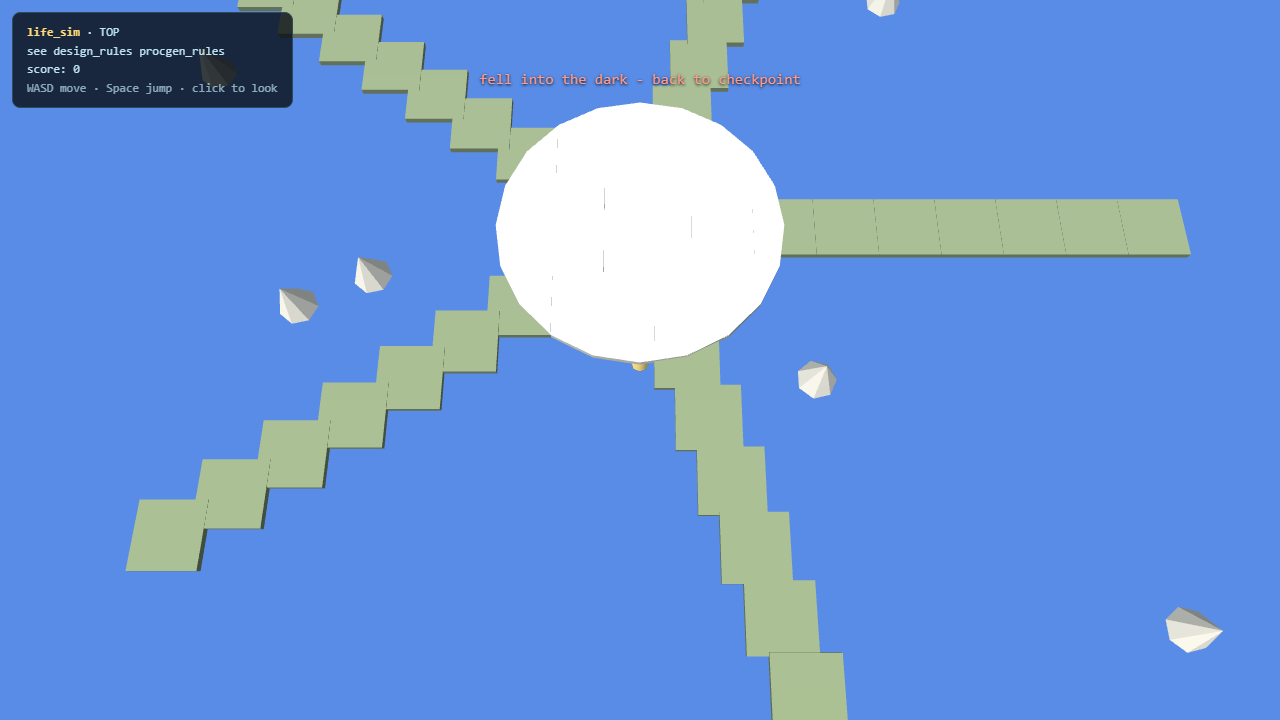
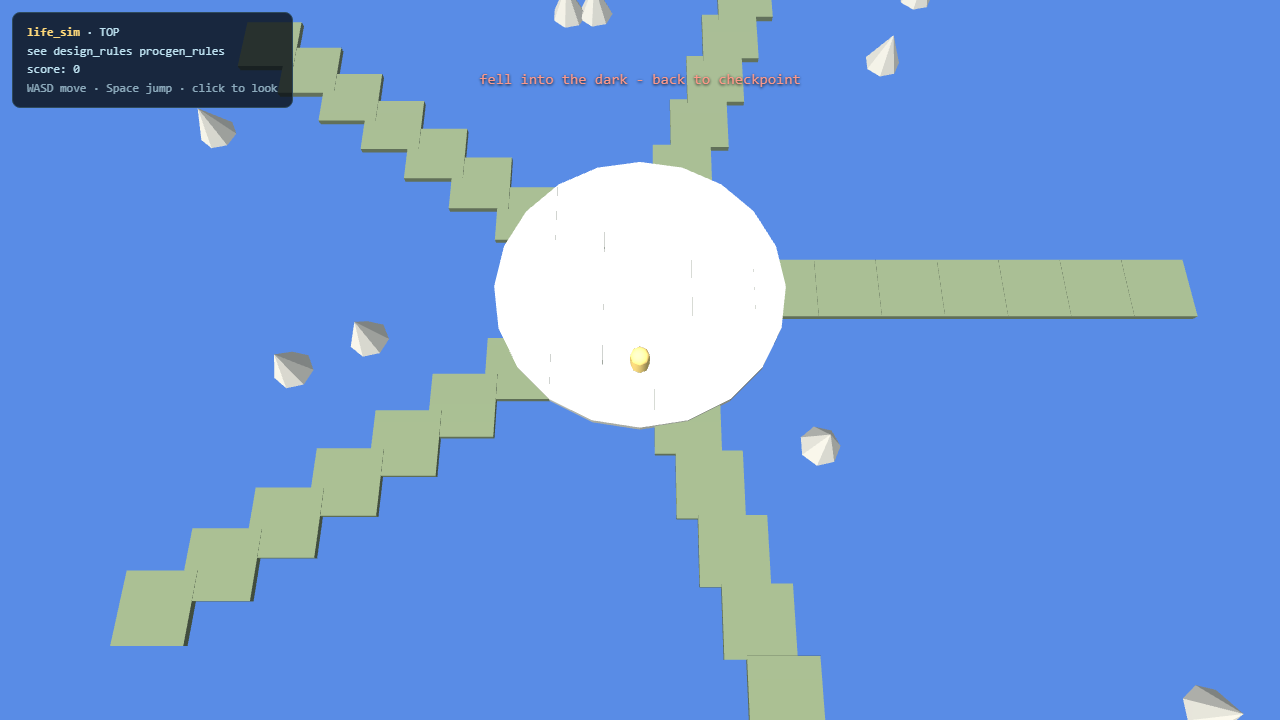
fix(runtime): honor jump_buffer_s + soulslike emits readable gameplay paths
- runtime.js: jump buffer window now reads gameplay.physics.jump_buffer_s
  (documented but previously ignored; fell back to coyote+0.02)
- gen_soulslike: enemy_aggro_m/corpse_run/spawn now at the top-level
  gameplay paths the browser+native runtimes consume (were buried under
  enemies./souls. sub-objects); Player_Start node tagged player/start so
  browser spawn lands at the bonfire instead of the generic default
- runtime.js resynced to every Project viewer; browser proof re-run 7/7 OK
  with input response

diff --git a/Project/example-village/viewer/runtime.js b/Project/example-village/viewer/runtime.js
@@ -145,18 +145,29 @@
       pending.push(objToGroup("../assets/" + c.path.replace(/^assets\//, ""), mtlMats).then(function (g) {
         g.position.fromArray(c.position || [0, 0, 0]); sc.add(g);
         solids.push(new THREE.Box3().setFromObject(g));
-      }).catch(function () {}));
+      }).catch(function (e) { console.warn("[litt] chunk failed:", c.path, e); }));
     });
     (scene.nodes || []).forEach(function (node) {
       if (node.id === 0) return;
       var mt = (node.tags || []).filter(function (t) { return t.indexOf("model:") === 0; })[0];
       if (!mt) return;
       var url = "../assets/models/" + mt.slice(6) + ".obj";
-      pending.push(objToGroup(url, mtlMats).then(function (g) { register(node, g); }).catch(function () {}));
+      pending.push(objToGroup(url, mtlMats).then(function (g) { register(node, g); })
+        .catch(function (e) { console.warn("[litt] model failed:", url, e); }));
     });
 
-    // player
+    // player -- spawn at a node tagged "player"/"start" when the world
+    // declares one; otherwise fall back to the classic default.
     var spawn = new THREE.Vector3(0, 1.2, 4);
+    (function pickSpawn() {
+      var s = (scene.nodes || []).filter(function (n) {
+        return n.id !== 0 && (has(n.tags || [], "player") || has(n.tags || [], "start"));
+      })[0];
+      if (s) {
+        spawn.fromArray(s.position || [0, 0, 0]);
+        spawn.y += 1.2;
+      }
+    })();
     var playerGeo = (typeof THREE.CapsuleGeometry === "function")
       ? new THREE.CapsuleGeometry(0.45, 0.9, 4, 8)
       : new THREE.CylinderGeometry(0.45, 0.45, 1.6, 10);
@@ -166,7 +177,8 @@
     var vel = new THREE.Vector3(); var pos = spawn.clone();
     var grounded = false, coyote = 0, buffer = 0, camYaw = Math.PI, score = 0, deadUntil = 0, won = false;
     var keys = {};
-    addEventListener("keydown", function (e) { keys[e.code] = true; if (e.code === "Space") buffer = COYOTE + 0.02; });
+    var BUF = phys.jump_buffer_s || (COYOTE + 0.02);
+    addEventListener("keydown", function (e) { keys[e.code] = true; if (e.code === "Space") buffer = BUF; });
     addEventListener("keyup", function (e) { keys[e.code] = false; });
     addEventListener("mousemove", function (e) { if (document.pointerLockElement) camYaw -= e.movementX * 0.003; });
     addEventListener("click", function () { if (mode === "3D") renderer.domElement.requestPointerLock(); });

diff --git a/Project/live/viewer/runtime.js b/Project/live/viewer/runtime.js
@@ -145,18 +145,29 @@
       pending.push(objToGroup("../assets/" + c.path.replace(/^assets\//, ""), mtlMats).then(function (g) {
         g.position.fromArray(c.position || [0, 0, 0]); sc.add(g);
         solids.push(new THREE.Box3().setFromObject(g));
-      }).catch(function () {}));
+      }).catch(function (e) { console.warn("[litt] chunk failed:", c.path, e); }));
     });
     (scene.nodes || []).forEach(function (node) {
       if (node.id === 0) return;
       var mt = (node.tags || []).filter(function (t) { return t.indexOf("model:") === 0; })[0];
       if (!mt) return;
       var url = "../assets/models/" + mt.slice(6) + ".obj";
-      pending.push(objToGroup(url, mtlMats).then(function (g) { register(node, g); }).catch(function () {}));
+      pending.push(objToGroup(url, mtlMats).then(function (g) { register(node, g); })
+        .catch(function (e) { console.warn("[litt] model failed:", url, e); }));
     });
 
-    // player
+    // player -- spawn at a node tagged "player"/"start" when the world
+    // declares one; otherwise fall back to the classic default.
     var spawn = new THREE.Vector3(0, 1.2, 4);
+    (function pickSpawn() {
+      var s = (scene.nodes || []).filter(function (n) {
+        return n.id !== 0 && (has(n.tags || [], "player") || has(n.tags || [], "start"));
+      })[0];
+      if (s) {
+        spawn.fromArray(s.position || [0, 0, 0]);
+        spawn.y += 1.2;
+      }
+    })();
     var playerGeo = (typeof THREE.CapsuleGeometry === "function")
       ? new THREE.CapsuleGeometry(0.45, 0.9, 4, 8)
       : new THREE.CylinderGeometry(0.45, 0.45, 1.6, 10);
@@ -166,7 +177,8 @@
     var vel = new THREE.Vector3(); var pos = spawn.clone();
     var grounded = false, coyote = 0, buffer = 0, camYaw = Math.PI, score = 0, deadUntil = 0, won = false;
     var keys = {};
-    addEventListener("keydown", function (e) { keys[e.code] = true; if (e.code === "Space") buffer = COYOTE + 0.02; });
+    var BUF = phys.jump_buffer_s || (COYOTE + 0.02);
+    addEventListener("keydown", function (e) { keys[e.code] = true; if (e.code === "Space") buffer = BUF; });
     addEventListener("keyup", function (e) { keys[e.code] = false; });
     addEventListener("mousemove", function (e) { if (document.pointerLockElement) camYaw -= e.movementX * 0.003; });
     addEventListener("click", function () { if (mode === "3D") renderer.domElement.requestPointerLock(); });

diff --git a/Project/ember-depths/viewer/runtime.js b/Project/ember-depths/viewer/runtime.js
@@ -145,14 +145,15 @@
       pending.push(objToGroup("../assets/" + c.path.replace(/^assets\//, ""), mtlMats).then(function (g) {
         g.position.fromArray(c.position || [0, 0, 0]); sc.add(g);
         solids.push(new THREE.Box3().setFromObject(g));
-      }).catch(function () {}));
+      }).catch(function (e) { console.warn("[litt] chunk failed:", c.path, e); }));
     });
     (scene.nodes || []).forEach(function (node) {
       if (node.id === 0) return;
       var mt = (node.tags || []).filter(function (t) { return t.indexOf("model:") === 0; })[0];
       if (!mt) return;
       var url = "../assets/models/" + mt.slice(6) + ".obj";
-      pending.push(objToGroup(url, mtlMats).then(function (g) { register(node, g); }).catch(function () {}));
+      pending.push(objToGroup(url, mtlMats).then(function (g) { register(node, g); })
+        .catch(function (e) { console.warn("[litt] model failed:", url, e); }));
     });
 
     // player -- spawn at a node tagged "player"/"start" when the world
@@ -176,7 +177,8 @@
     var vel = new THREE.Vector3(); var pos = spawn.clone();
     var grounded = false, coyote = 0, buffer = 0, camYaw = Math.PI, score = 0, deadUntil = 0, won = false;
     var keys = {};
-    addEventListener("keydown", function (e) { keys[e.code] = true; if (e.code === "Space") buffer = COYOTE + 0.02; });
+    var BUF = phys.jump_buffer_s || (COYOTE + 0.02);
+    addEventListener("keydown", function (e) { keys[e.code] = true; if (e.code === "Space") buffer = BUF; });
     addEventListener("keyup", function (e) { keys[e.code] = false; });
     addEventListener("mousemove", function (e) { if (document.pointerLockElement) camYaw -= e.movementX * 0.003; });
     addEventListener("click", function () { if (mode === "3D") renderer.domElement.requestPointerLock(); });

diff --git a/Project/kingsfall-hollow/viewer/runtime.js b/Project/kingsfall-hollow/viewer/runtime.js
@@ -145,14 +145,15 @@
       pending.push(objToGroup("../assets/" + c.path.replace(/^assets\//, ""), mtlMats).then(function (g) {
         g.position.fromArray(c.position || [0, 0, 0]); sc.add(g);
         solids.push(new THREE.Box3().setFromObject(g));
-      }).catch(function () {}));
+      }).catch(function (e) { console.warn("[litt] chunk failed:", c.path, e); }));
     });
     (scene.nodes || []).forEach(function (node) {
       if (node.id === 0) return;
       var mt = (node.tags || []).filter(function (t) { return t.indexOf("model:") === 0; })[0];
       if (!mt) return;
       var url = "../assets/models/" + mt.slice(6) + ".obj";
-      pending.push(objToGroup(url, mtlMats).then(function (g) { register(node, g); }).catch(function () {}));
+      pending.push(objToGroup(url, mtlMats).then(function (g) { register(node, g); })
+        .catch(function (e) { console.warn("[litt] model failed:", url, e); }));
     });
 
     // player -- spawn at a node tagged "player"/"start" when the world
@@ -176,7 +177,8 @@
     var vel = new THREE.Vector3(); var pos = spawn.clone();
     var grounded = false, coyote = 0, buffer = 0, camYaw = Math.PI, score = 0, deadUntil = 0, won = false;
     var keys = {};
-    addEventListener("keydown", function (e) { keys[e.code] = true; if (e.code === "Space") buffer = COYOTE + 0.02; });
+    var BUF = phys.jump_buffer_s || (COYOTE + 0.02);
+    addEventListener("keydown", function (e) { keys[e.code] = true; if (e.code === "Space") buffer = BUF; });
     addEventListener("keyup", function (e) { keys[e.code] = false; });
     addEventListener("mousemove", function (e) { if (document.pointerLockElement) camYaw -= e.movementX * 0.003; });
     addEventListener("click", function () { if (mode === "3D") renderer.domElement.requestPointerLock(); });

diff --git a/Project/skyline-run/viewer/runtime.js b/Project/skyline-run/viewer/runtime.js
@@ -145,14 +145,15 @@
       pending.push(objToGroup("../assets/" + c.path.replace(/^assets\//, ""), mtlMats).then(function (g) {
         g.position.fromArray(c.position || [0, 0, 0]); sc.add(g);
         solids.push(new THREE.Box3().setFromObject(g));
-      }).catch(function () {}));
+      }).catch(function (e) { console.warn("[litt] chunk failed:", c.path, e); }));
     });
     (scene.nodes || []).forEach(function (node) {
       if (node.id === 0) return;
       var mt = (node.tags || []).filter(function (t) { return t.indexOf("model:") === 0; })[0];
       if (!mt) return;
       var url = "../assets/models/" + mt.slice(6) + ".obj";
-      pending.push(objToGroup(url, mtlMats).then(function (g) { register(node, g); }).catch(function () {}));
+      pending.push(objToGroup(url, mtlMats).then(function (g) { register(node, g); })
+        .catch(function (e) { console.warn("[litt] model failed:", url, e); }));
     });
 
     // player -- spawn at a node tagged "player"/"start" when the world
@@ -176,7 +177,8 @@
     var vel = new THREE.Vector3(); var pos = spawn.clone();
     var grounded = false, coyote = 0, buffer = 0, camYaw = Math.PI, score = 0, deadUntil = 0, won = false;
     var keys = {};
-    addEventListener("keydown", function (e) { keys[e.code] = true; if (e.code === "Space") buffer = COYOTE + 0.02; });
+    var BUF = phys.jump_buffer_s || (COYOTE + 0.02);
+    addEventListener("keydown", function (e) { keys[e.code] = true; if (e.code === "Space") buffer = BUF; });
     addEventListener("keyup", function (e) { keys[e.code] = false; });
     addEventListener("mousemove", function (e) { if (document.pointerLockElement) camYaw -= e.movementX * 0.003; });
     addEventListener("click", function () { if (mode === "3D") renderer.domElement.requestPointerLock(); });

diff --git a/Project/ash-reach/viewer/runtime.js b/Project/ash-reach/viewer/runtime.js
@@ -177,7 +177,8 @@
     var vel = new THREE.Vector3(); var pos = spawn.clone();
     var grounded = false, coyote = 0, buffer = 0, camYaw = Math.PI, score = 0, deadUntil = 0, won = false;
     var keys = {};
-    addEventListener("keydown", function (e) { keys[e.code] = true; if (e.code === "Space") buffer = COYOTE + 0.02; });
+    var BUF = phys.jump_buffer_s || (COYOTE + 0.02);
+    addEventListener("keydown", function (e) { keys[e.code] = true; if (e.code === "Space") buffer = BUF; });
     addEventListener("keyup", function (e) { keys[e.code] = false; });
     addEventListener("mousemove", function (e) { if (document.pointerLockElement) camYaw -= e.movementX * 0.003; });
     addEventListener("click", function () { if (mode === "3D") renderer.domElement.requestPointerLock(); });

diff --git a/Project/crimson-fall/viewer/runtime.js b/Project/crimson-fall/viewer/runtime.js
@@ -177,7 +177,8 @@
     var vel = new THREE.Vector3(); var pos = spawn.clone();
     var grounded = false, coyote = 0, buffer = 0, camYaw = Math.PI, score = 0, deadUntil = 0, won = false;
     var keys = {};
-    addEventListener("keydown", function (e) { keys[e.code] = true; if (e.code === "Space") buffer = COYOTE + 0.02; });
+    var BUF = phys.jump_buffer_s || (COYOTE + 0.02);
+    addEventListener("keydown", function (e) { keys[e.code] = true; if (e.code === "Space") buffer = BUF; });
     addEventListener("keyup", function (e) { keys[e.code] = false; });
     addEventListener("mousemove", function (e) { if (document.pointerLockElement) camYaw -= e.movementX * 0.003; });
     addEventListener("click", function () { if (mode === "3D") renderer.domElement.requestPointerLock(); });

diff --git a/template/tools/runtime/runtime.js b/template/tools/runtime/runtime.js
@@ -177,7 +177,8 @@
     var vel = new THREE.Vector3(); var pos = spawn.clone();
     var grounded = false, coyote = 0, buffer = 0, camYaw = Math.PI, score = 0, deadUntil = 0, won = false;
     var keys = {};
-    addEventListener("keydown", function (e) { keys[e.code] = true; if (e.code === "Space") buffer = COYOTE + 0.02; });
+    var BUF = phys.jump_buffer_s || (COYOTE + 0.02);
+    addEventListener("keydown", function (e) { keys[e.code] = true; if (e.code === "Space") buffer = BUF; });
     addEventListener("keyup", function (e) { keys[e.code] = false; });
     addEventListener("mousemove", function (e) { if (document.pointerLockElement) camYaw -= e.movementX * 0.003; });
     addEventListener("click", function () { if (mode === "3D") renderer.domElement.requestPointerLock(); });

diff --git a/template/tools/worldgen/gen_soulslike.py b/template/tools/worldgen/gen_soulslike.py
@@ -117,6 +117,7 @@ def layout():
     rng = Rng(SEED_S)
     items = [
       ("Bonfire",      "bonfire",      [0, 0, 2],    0,   ["poi","checkpoint"]),
+      ("Player_Start", "bonfire",      [0, 0, 4.5],  0,   ["player","start"]),
       ("Bloodstain",   "bloodstain",   [2.2, 0, 5],  0,   ["memorial","corpse_run"]),
       ("Hollow_01",    "hollow",       [-4, 0, 14],  15,  ["enemy","aggro_small"]),
       ("Hollow_02",    "hollow",       [5, 0, 22],   -20, ["enemy","aggro_small"]),
@@ -225,6 +226,10 @@ def main():
       "palette": MATS,
       "gameplay": {
         "genre": "soulslike",
+        "objective": "Emberfall Hollow: kindle the bonfire, survive the road, face the Ashen Knight",
+        "enemy_aggro_m": 8.0,
+        "corpse_run": True,
+        "spawn": [0.0, 0.0, 4.5],
         "checkpoint": {"node": "Bonfire", "respawn_on_death": True},
         "souls": {"pickups": 7, "corpse_run": "return to Bloodstain node to recover"},
         "combat": {"stamina_max": 100, "roll_cost": 25, "attack_cost": 20, "regen_per_sec": 35},
